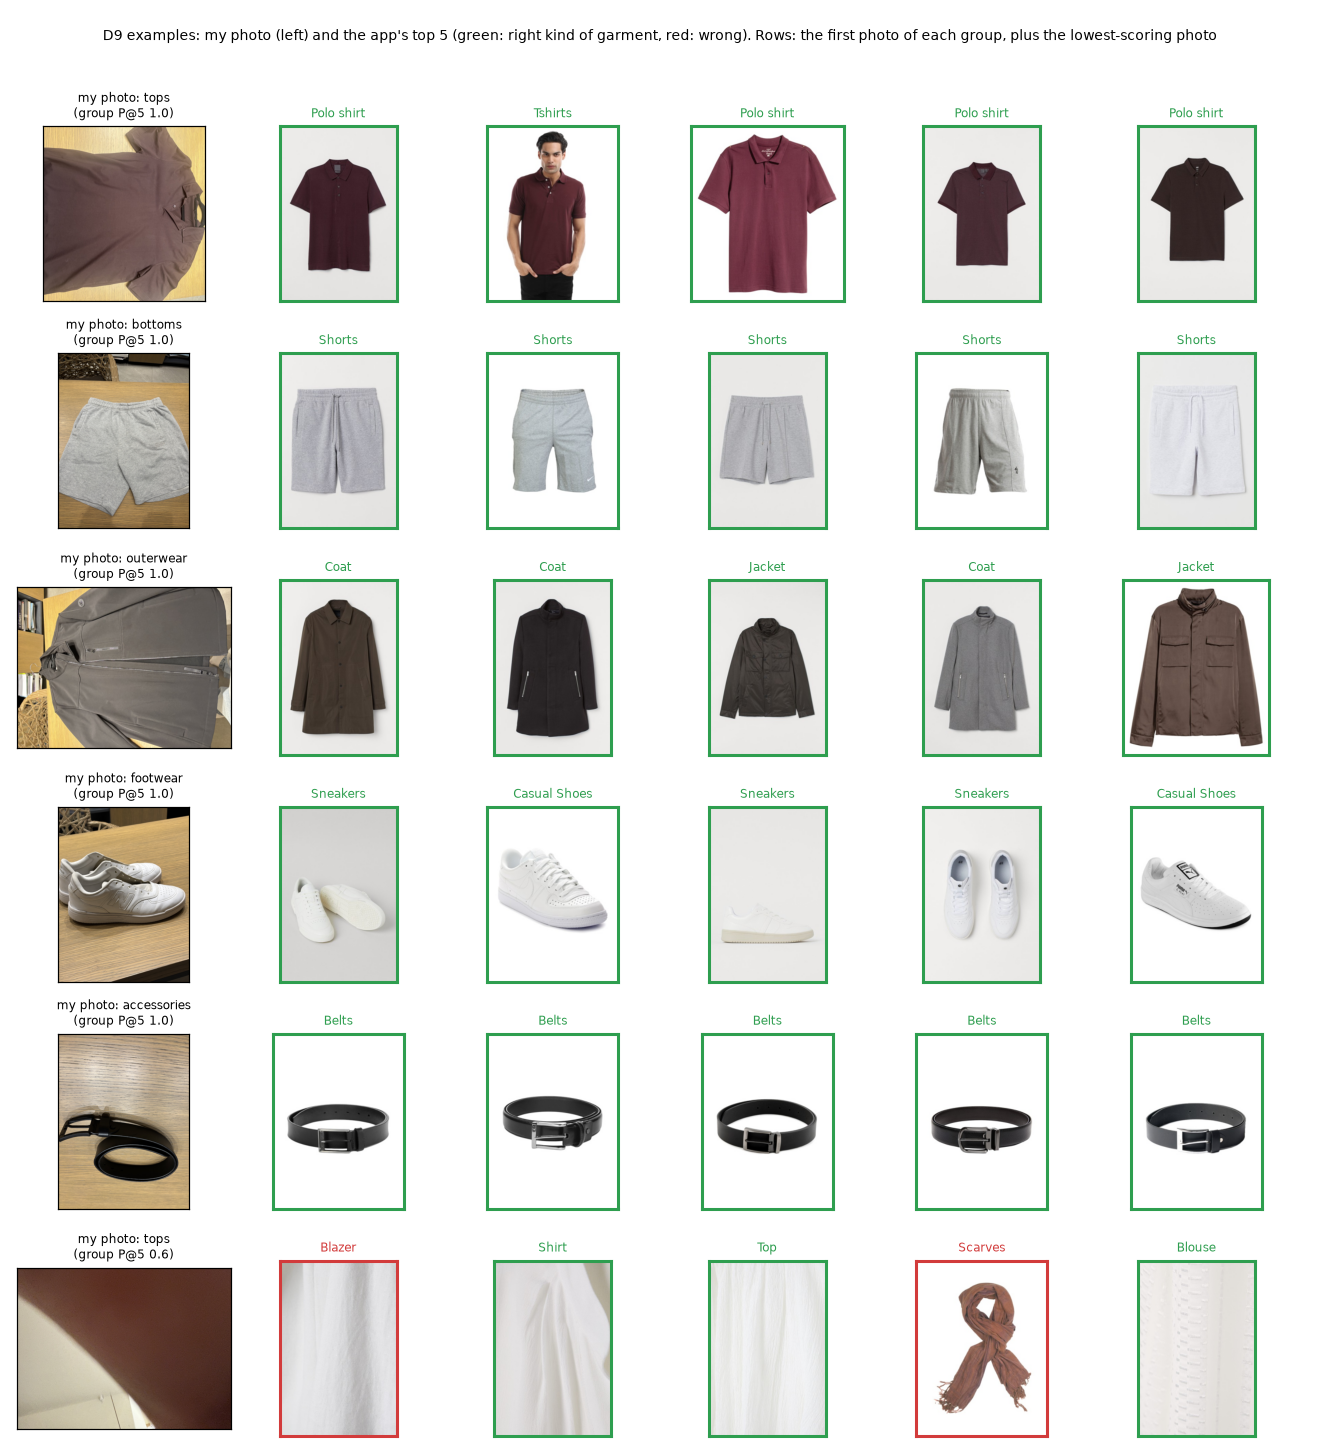
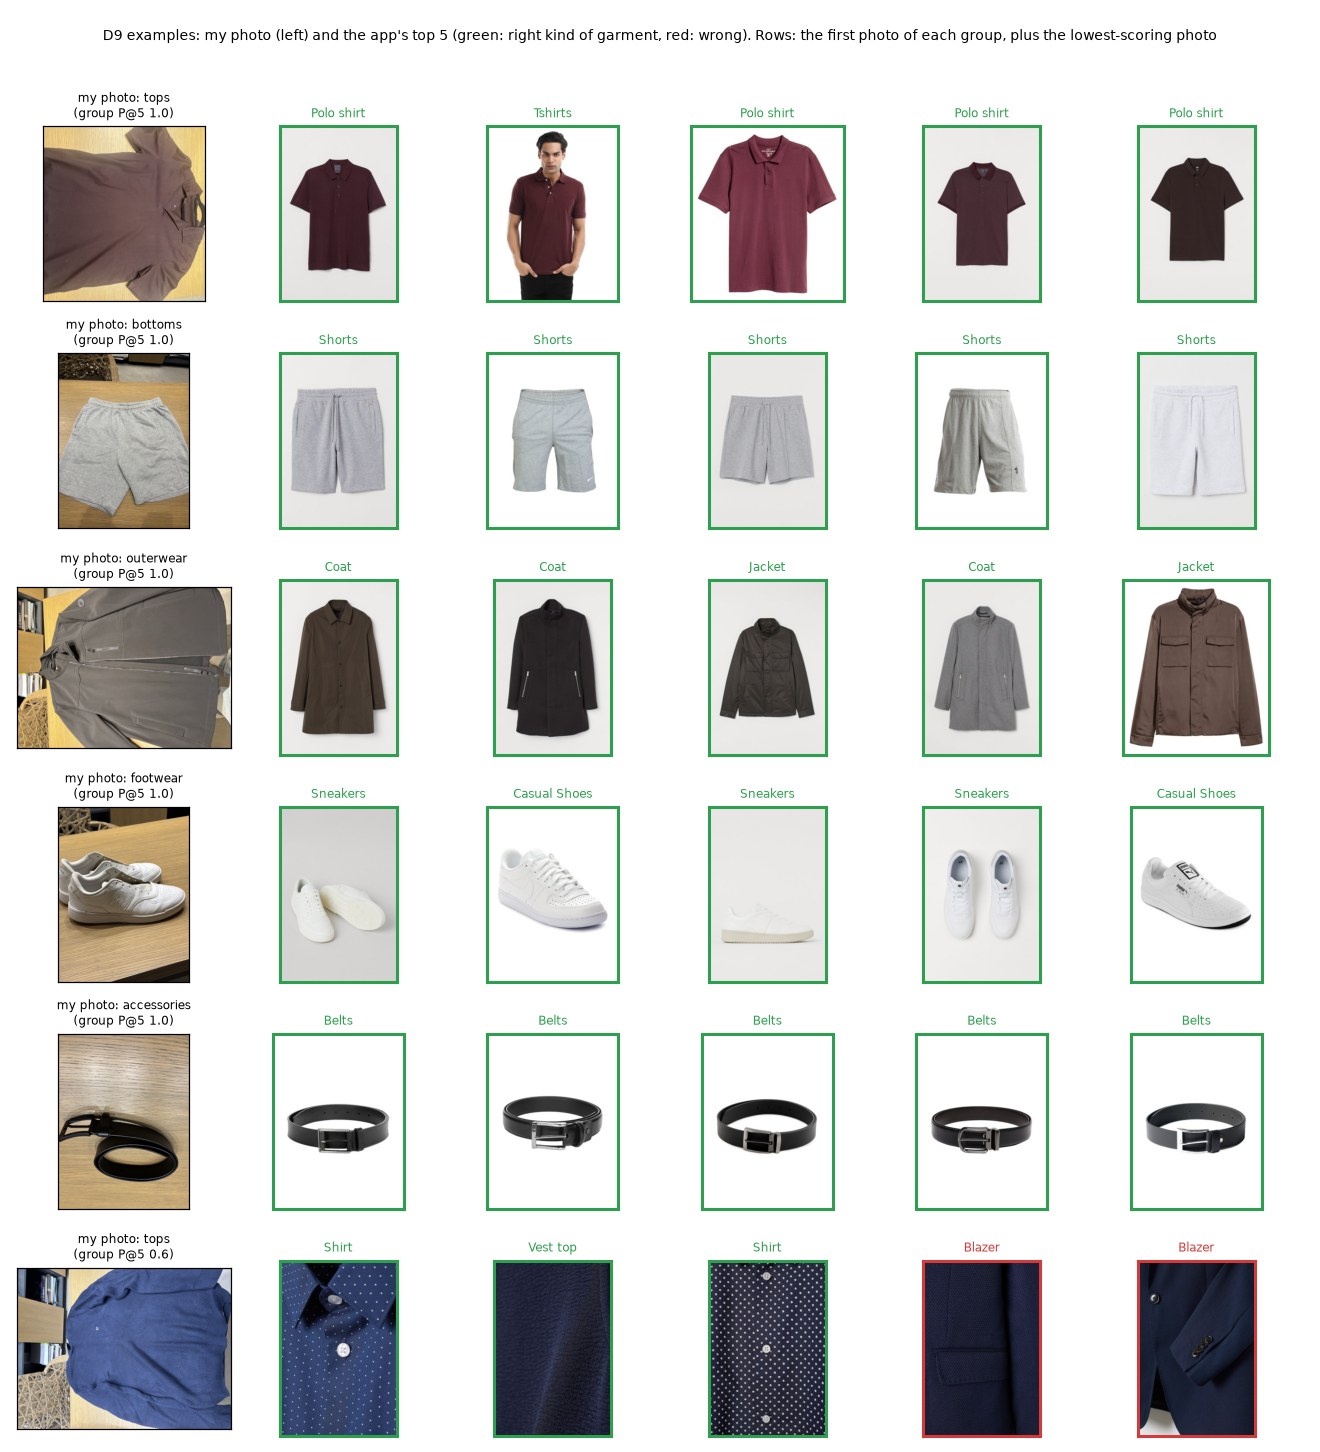
D9 correction: one photo was a finger, not a garment (both versions reported); gallery regenerated without it

diff --git a/report/make_final_figures.py b/report/make_final_figures.py
@@ -5,7 +5,8 @@
   fig16_crop_vs_whole.png  garment marked (crop) vs whole photo, test half, official corpus
   fig17_d9.png             D9 own wardrobe: the app's group P@5 per group, and type P@5 per type
   fig18_d9_gallery.png     D9 examples: the app's top 5 for 6 of my photos, chosen by a fixed rule
-                           (the first photo of each group in file order + the photo with the lowest group P@5)
+                           (the first photo of each group in file order + the photo with the lowest group P@5;
+                           IMG_4237 is skipped: it is not a garment, see the correction to Finding 46)
 
 Every number is read from results/ (or recomputed from the per-query files) and checked against the value
 in the README before plotting. Error bars: 95% bootstrap CI over photos (evaluation/stats.py), the same
@@ -219,7 +220,8 @@ def fig_gallery():
     from serving.badges import APP_GROUP_OF_TYPE
 
     app = pd.read_csv("results/d9_app.csv")
-    scored = app[app["group"] != "other"]
+    # IMG_4237 is not a garment (taken by mistake, see the correction to Finding 46): never shown as an example
+    scored = app[(app["group"] != "other") & (app["file"] != "IMG_4237.HEIC")]
     # fixed rule, not chosen by looking: first photo of each group in file order, then the lowest group P@5
     picks = [scored[scored["group"] == g].sort_values("file").iloc[0]
              for g in ["tops", "bottoms", "outerwear", "footwear", "accessories"]]

diff --git a/report/results_log.md b/report/results_log.md
@@ -1345,3 +1345,17 @@ Finding 37.
 Limits: one person's wardrobe, one session, one phone; 61% of the photos are tops (39 t-shirts); no dresses,
 bags or skirts; the type labels and the photos are mine. Per-type numbers rest on 1-5 photos except t-shirts.
 Nothing was changed after seeing these results.
+
+Correction to Finding 46 (Nov 23, AFTER the run): IMG_4237.HEIC is not a garment. It was taken by mistake and
+labelled as a t-shirt by mistake; I noticed while choosing examples for the figures, i.e. after seeing that it was
+one of the lowest-scoring photos. The protocol says no photo is dropped after seeing results, so the primary
+numbers above stay as run (82 / 65 photos). Without that photo (81 / 64 photos): app group P@5 0.990
+[0.978, 1.0]; type P@5 finetuned_random 0.756 [0.675, 0.825], fashion_siglip 0.722, ensemble_mv 0.700,
+color_hist 0.094; t-shirts 0.768 (38). "Not sure" then fires on 39 of 82 photos, with group P@5 0.984 when it
+fires vs 0.995 when it does not, so the conclusion (it barely separates good from bad results) is unchanged.
+Both versions are reported; the conclusions don't depend on which one is used. The example gallery
+(report/make_final_figures.py) skips this photo, since it does not show a garment.
+The photo is of my finger, which makes it an accidental test of a non-garment photo: the app returned blazers,
+shirts, tops and a scarf, did NOT say "not sure", and did not give the out-of-catalogue warning (only the type
+badge was held back, confidence < 0.9). The warning only knows clothing the shop doesn't sell, so it can't
+recognise "not clothing at all"; that's a limitation of the app.

diff --git a/README.md b/README.md
@@ -174,6 +174,10 @@ hand and checked before the single run (Finding 46).
 | Pretrained FashionSigLIP, same | 0.711 | 65 |
 | Colour histogram, same | 0.092 | 65 |
 
+One photo (a t-shirt label on something that is not a garment, taken by mistake) was noticed only after the run.
+The rules say nothing is dropped after seeing results, so the table keeps it; without it the two primary numbers
+are 0.990 and 0.756 (Finding 46, correction).
+
 ![D9: the app's right-kind-of-garment score per group, and the fine-tuned model's article-type score per type](report/figures/fig17_d9.png)
 
 ![D9 examples: my photo and the app's top 5, for the first photo of each group and the lowest-scoring photo](report/figures/fig18_d9_gallery.png)
@@ -317,6 +321,9 @@ promise on real photos if it is calibrated on real photos (Finding 10).
 
 ## Limitations
 
+- **It doesn't notice when a photo shows no garment at all.** An accidental photo of my finger in D9 got
+  blazers and shirts back, with no "not sure" and no out-of-catalogue warning; the warning only knows clothing
+  the shop doesn't sell.
 - The app can only return what the catalogue sells, so for many photos the best answer is "similar", not
   "the same". The exact item comes first about half the time on real crops, 39% on whole photos.
 - The real-photo test is one benchmark (LookBench street photos, 981 photos, 621 independent groups); the
